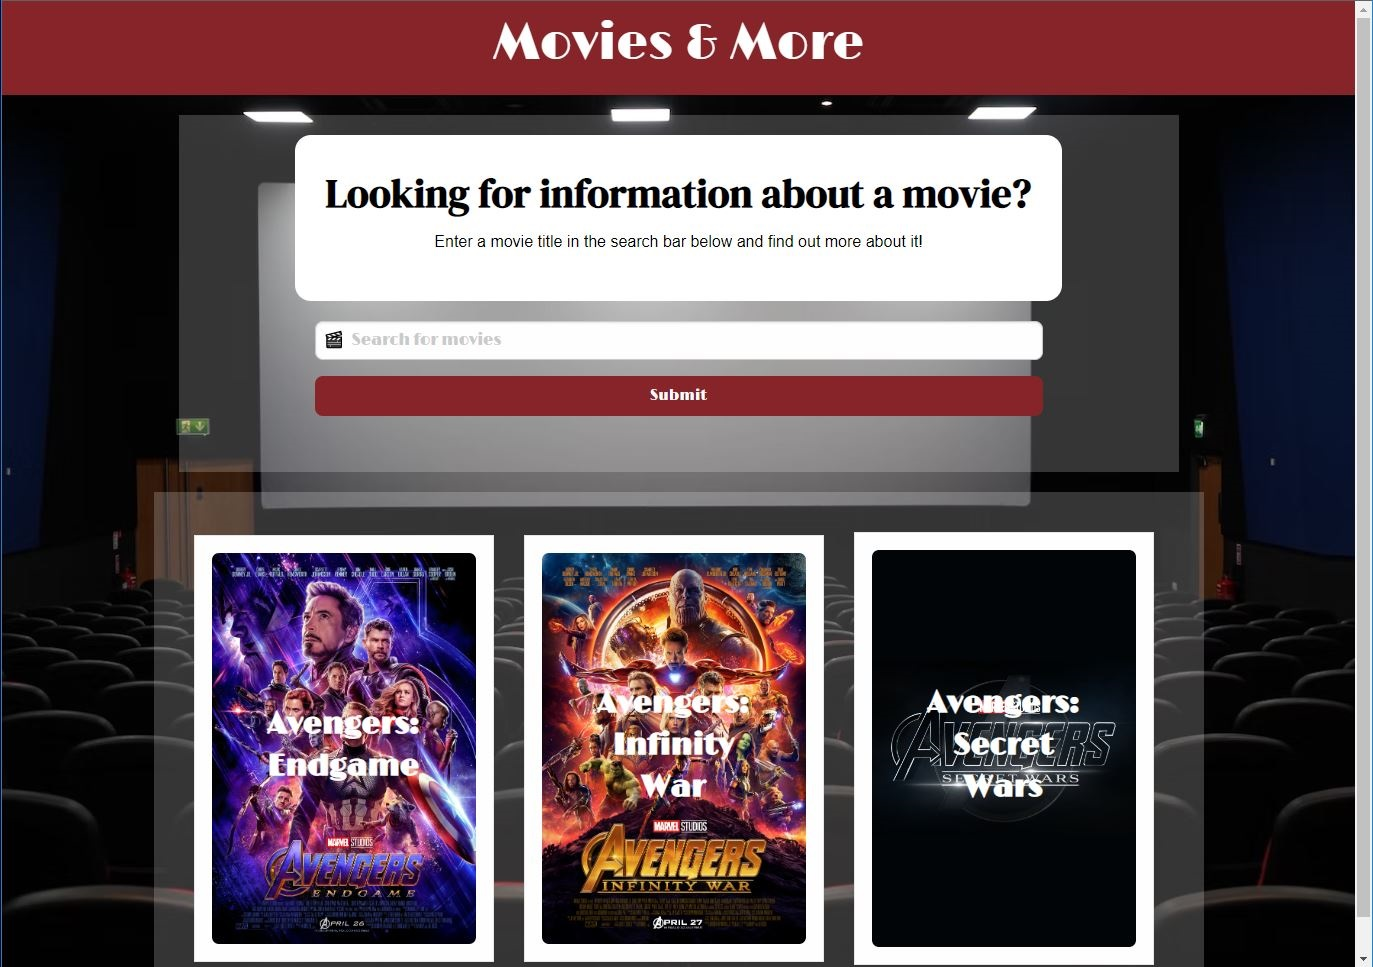
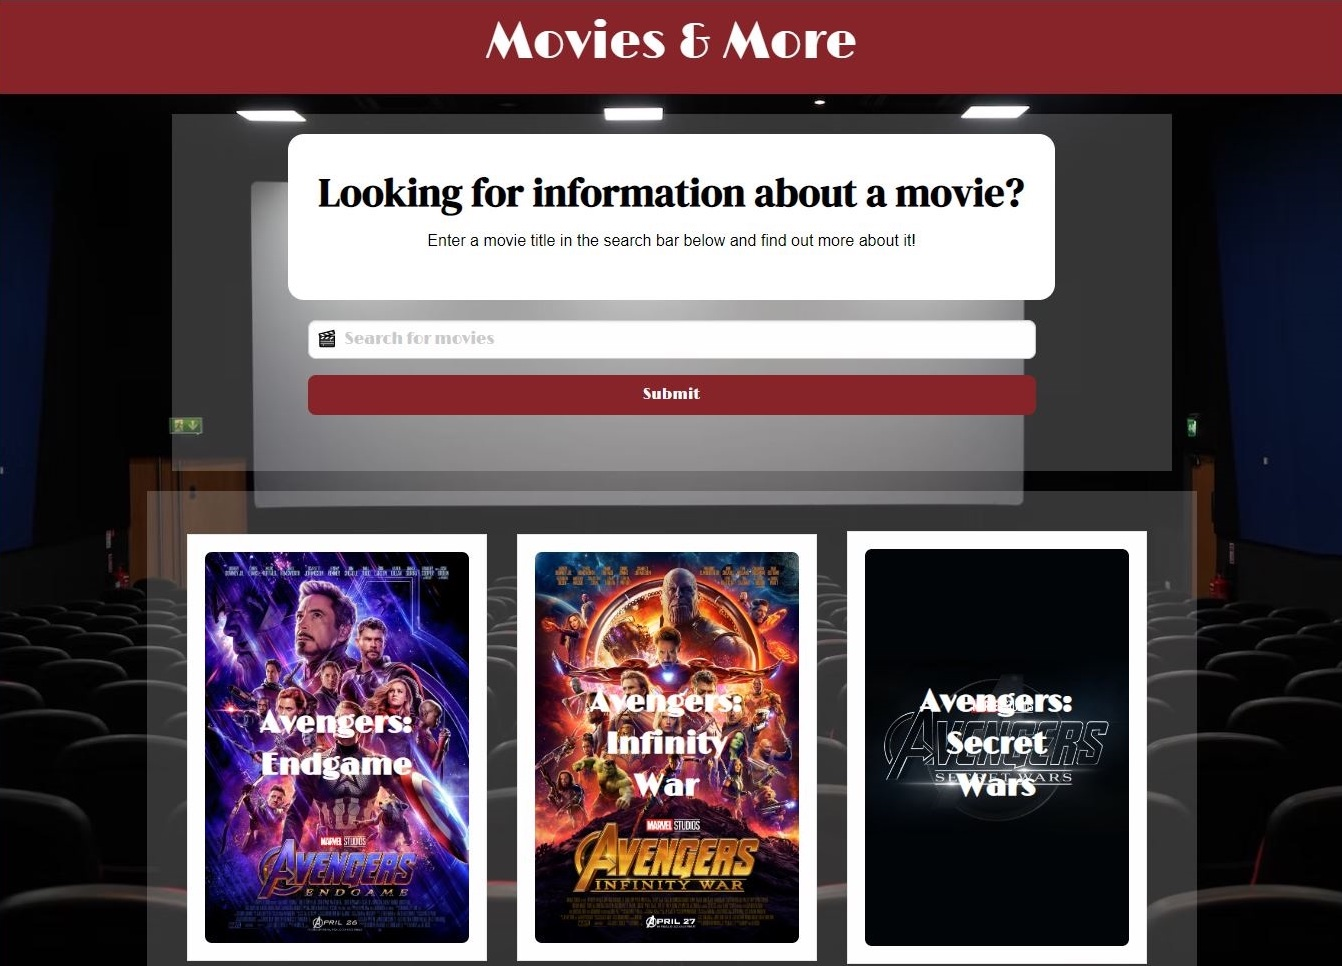
image update

diff --git a/assets/style.css b/assets/style.css
@@ -224,13 +224,13 @@ figcaption {
     display: flex;
     flex-direction: row;
     flex-wrap: wrap;
-    background-color:var(--brightblue);
+    background-color:rgba(129,170, 190, 0.92);
     max-width: fit-content;
-    max-height: fit-content;
-    min-height: fit-content;
+    min-width: fit-content;
     padding: 1px;
     margin-top: -100px;
     position:relative;
+    padding-right: 12px;
 }
 figcaption h4 {
     line-height: 18px;
